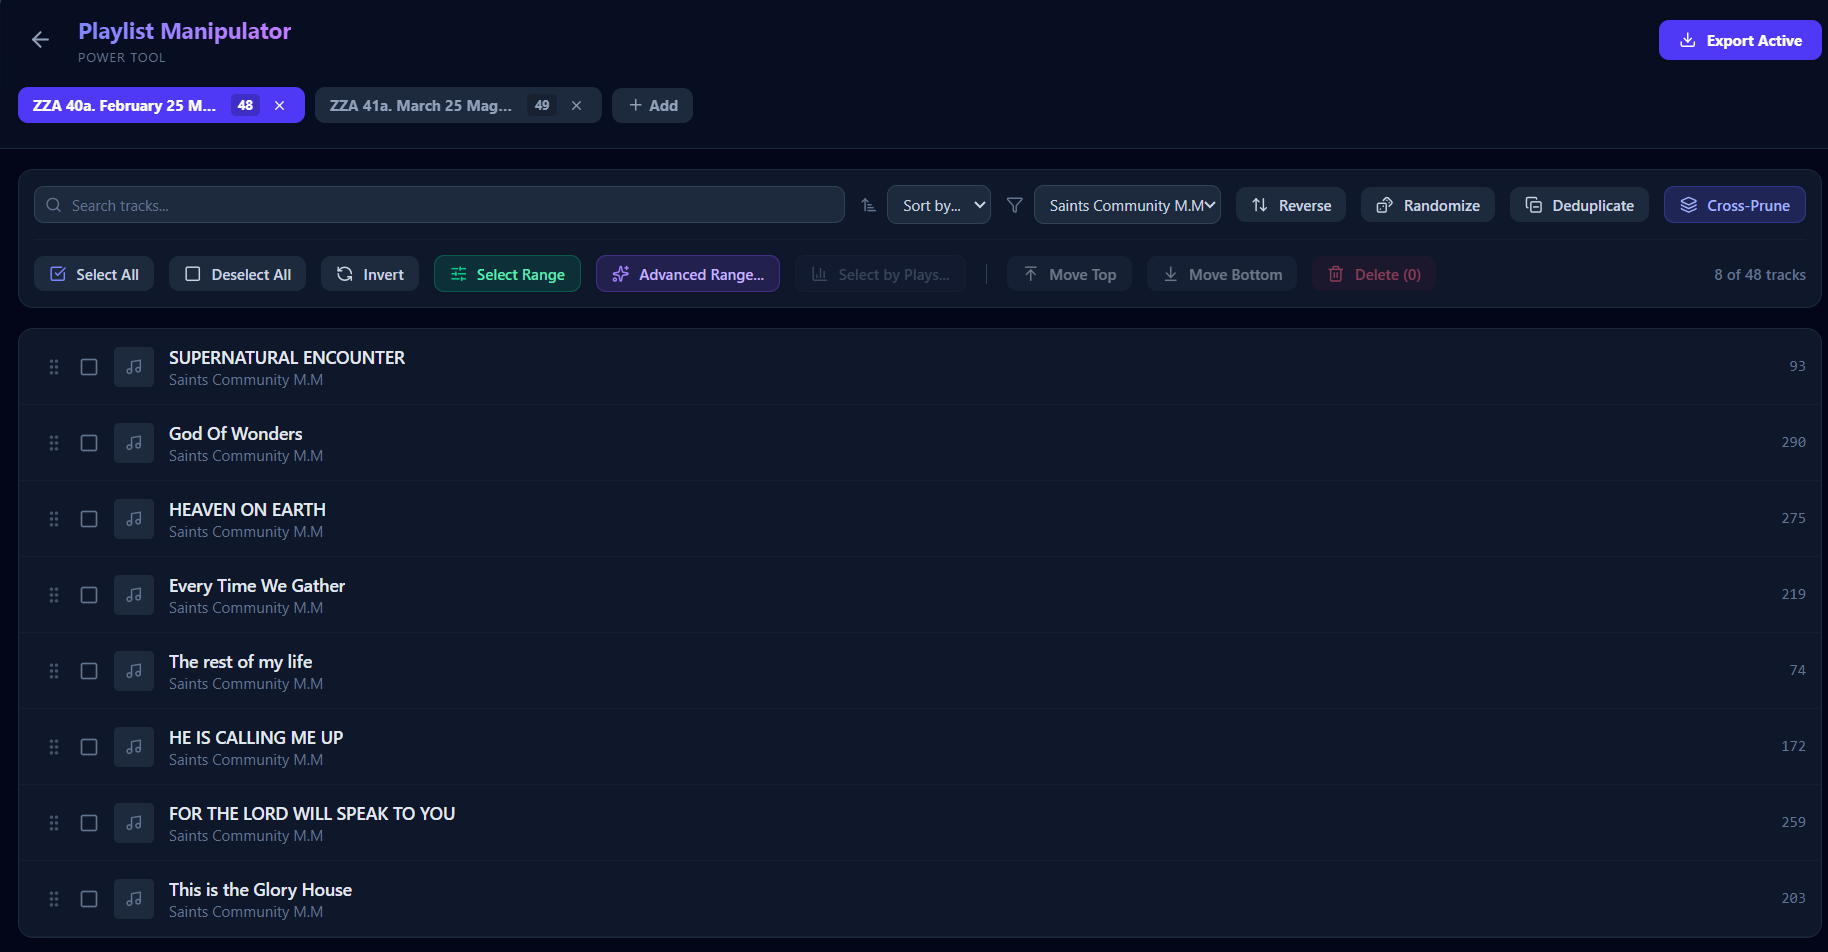
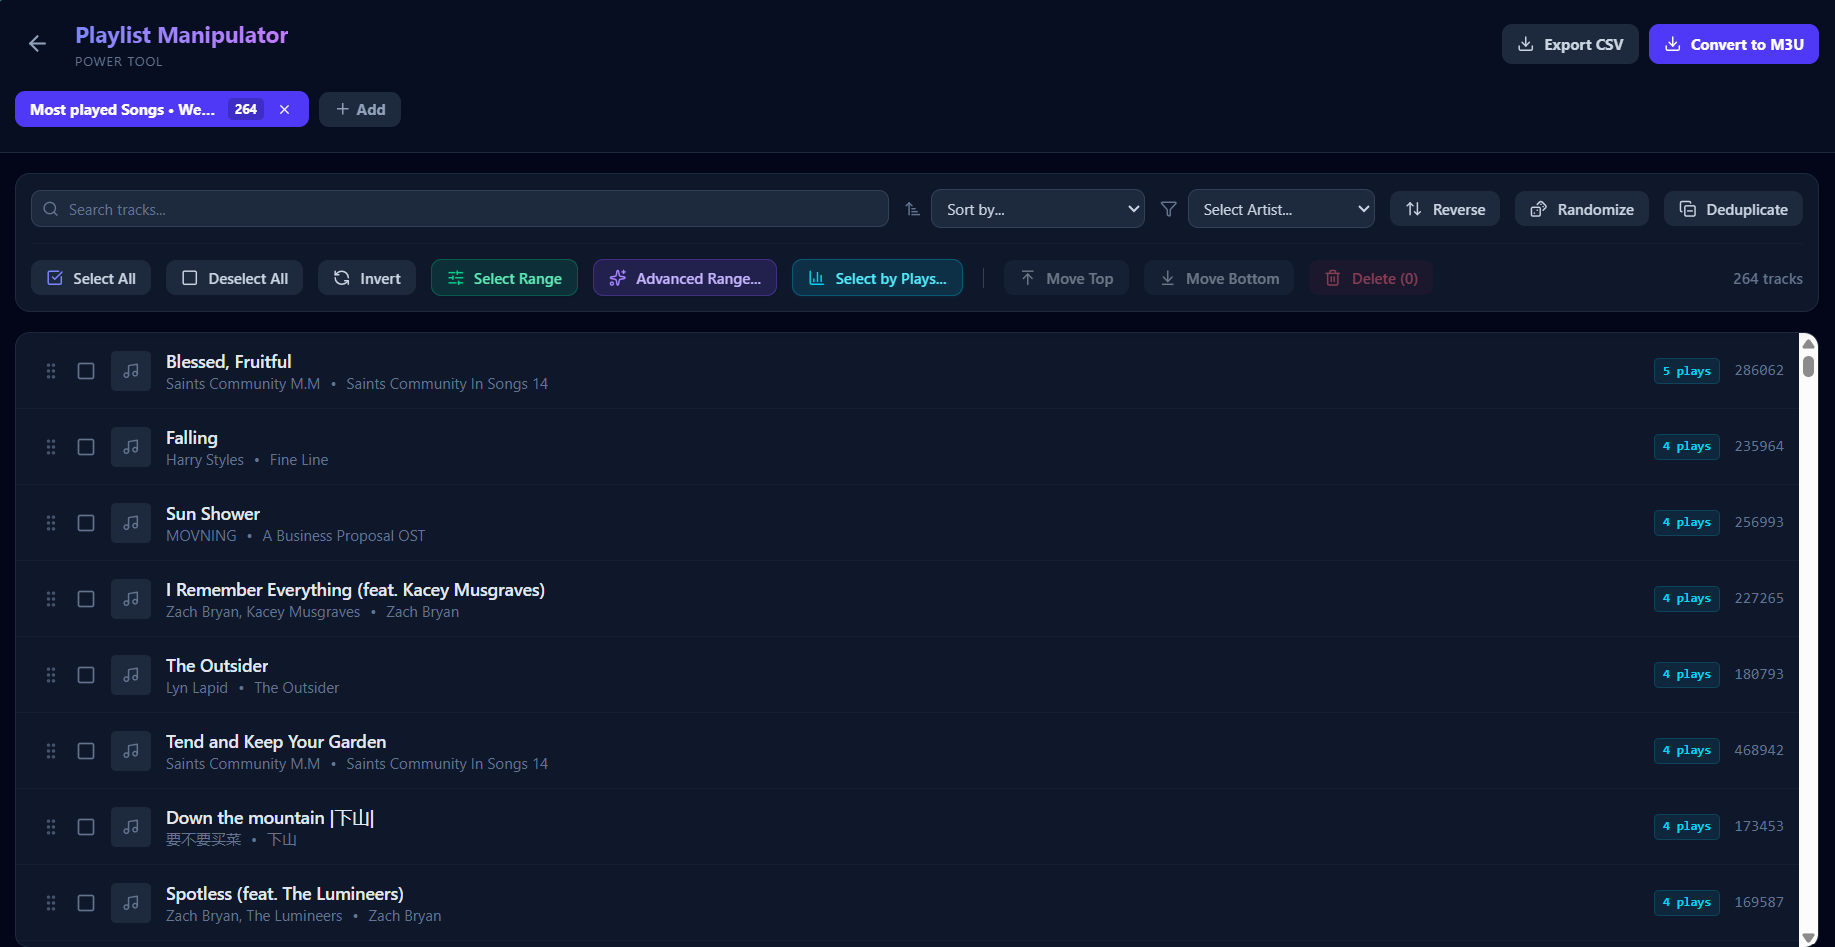
Fix M3U export formatting: parse duration in seconds, normalize paths to forward slashes, and format duration display in UI

diff --git a/views/PlaylistManipulatorView.tsx b/views/PlaylistManipulatorView.tsx
@@ -85,6 +85,26 @@ function escapeCSV(str: string) {
   return str;
 }
 
+function formatDuration(durationStr: string) {
+  if (!durationStr) return '';
+  if (durationStr.includes(':')) return durationStr;
+  
+  const val = parseInt(durationStr, 10);
+  if (isNaN(val)) return durationStr;
+  
+  // Convert milliseconds (> 5000) to seconds, otherwise keep as seconds
+  const totalSeconds = val > 5000 ? Math.round(val / 1000) : val;
+  
+  const hrs = Math.floor(totalSeconds / 3600);
+  const mins = Math.floor((totalSeconds % 3600) / 60);
+  const secs = totalSeconds % 60;
+  
+  if (hrs > 0) {
+    return `${hrs}:${mins.toString().padStart(2, '0')}:${secs.toString().padStart(2, '0')}`;
+  }
+  return `${mins}:${secs.toString().padStart(2, '0')}`;
+}
+
 function getBigrams(str: string) {
   const bigrams = [];
   for (let i = 0; i < str.length - 1; i++) {
@@ -235,15 +255,28 @@ export default function PlaylistManipulatorView({ onBack }: PlaylistManipulatorV
             
             const parsedPlays = playCountIdx !== -1 && row[playCountIdx] ? parseInt(row[playCountIdx], 10) : undefined;
             const rowPath = pathIdx !== -1 && row[pathIdx] ? row[pathIdx] : '';
+            
+            let seconds = -1;
+            if (durationIdx !== -1 && row[durationIdx]) {
+              const durVal = parseInt(row[durationIdx], 10);
+              if (!isNaN(durVal)) {
+                seconds = durVal > 5000 ? Math.round(durVal / 1000) : durVal;
+              }
+            }
+
+            const title = titleIdx !== -1 && row[titleIdx] ? row[titleIdx] : `Track ${i}`;
+            const artist = artistIdx !== -1 && row[artistIdx] ? row[artistIdx] : 'Unknown';
+            const normPath = rowPath ? rowPath.replace(/\\/g, '/') : '';
+
             newTracks.push({
               id: generateId(),
-              title: titleIdx !== -1 && row[titleIdx] ? row[titleIdx] : `Track ${i}`,
-              artist: artistIdx !== -1 && row[artistIdx] ? row[artistIdx] : 'Unknown',
+              title,
+              artist,
               album: albumIdx !== -1 && row[albumIdx] ? row[albumIdx] : '',
               duration: durationIdx !== -1 && row[durationIdx] ? row[durationIdx] : '',
               playCount: isNaN(parsedPlays as number) ? undefined : parsedPlays,
-              m3uPath: rowPath || undefined,
-              m3uMeta: `#EXTINF:-1,${artistIdx !== -1 && row[artistIdx] ? row[artistIdx] : 'Unknown'} - ${titleIdx !== -1 && row[titleIdx] ? row[titleIdx] : `Track ${i}`}`,
+              m3uPath: normPath || undefined,
+              m3uMeta: `#EXTINF:${seconds},${artist} - ${title}`,
               csvRow: row
             });
           }
@@ -849,13 +882,33 @@ export default function PlaylistManipulatorView({ onBack }: PlaylistManipulatorV
       content += '#EXTM3U\n';
       for (const t of activePlaylist.tracks) {
         if (t.m3uMeta) {
+          if (t.m3uMeta.startsWith('#EXTINF:-1,') && t.duration) {
+            const durVal = parseInt(t.duration, 10);
+            if (!isNaN(durVal)) {
+              const seconds = durVal > 5000 ? Math.round(durVal / 1000) : durVal;
+              content += `#EXTINF:${seconds},${t.artist} - ${t.title}\n`;
+              if (t.m3uPath) {
+                content += t.m3uPath.replace(/\\/g, '/') + '\n';
+              } else {
+                content += `${t.artist} - ${t.title}.mp3\n`;
+              }
+              continue;
+            }
+          }
           content += t.m3uMeta + '\n';
         } else {
-          content += `#EXTINF:-1,${t.artist} - ${t.title}\n`;
+          let seconds = -1;
+          if (t.duration) {
+            const durVal = parseInt(t.duration, 10);
+            if (!isNaN(durVal)) {
+              seconds = durVal > 5000 ? Math.round(durVal / 1000) : durVal;
+            }
+          }
+          content += `#EXTINF:${seconds},${t.artist} - ${t.title}\n`;
         }
         
         if (t.m3uPath) {
-          content += t.m3uPath + '\n';
+          content += t.m3uPath.replace(/\\/g, '/') + '\n';
         } else {
           content += `${t.artist} - ${t.title}.mp3\n`;
         }
@@ -1259,7 +1312,7 @@ export default function PlaylistManipulatorView({ onBack }: PlaylistManipulatorV
                           )}
                           {track.duration && (
                             <div className="text-xs text-slate-500">
-                              {track.duration}
+                              {formatDuration(track.duration)}
                             </div>
                           )}
                         </div>